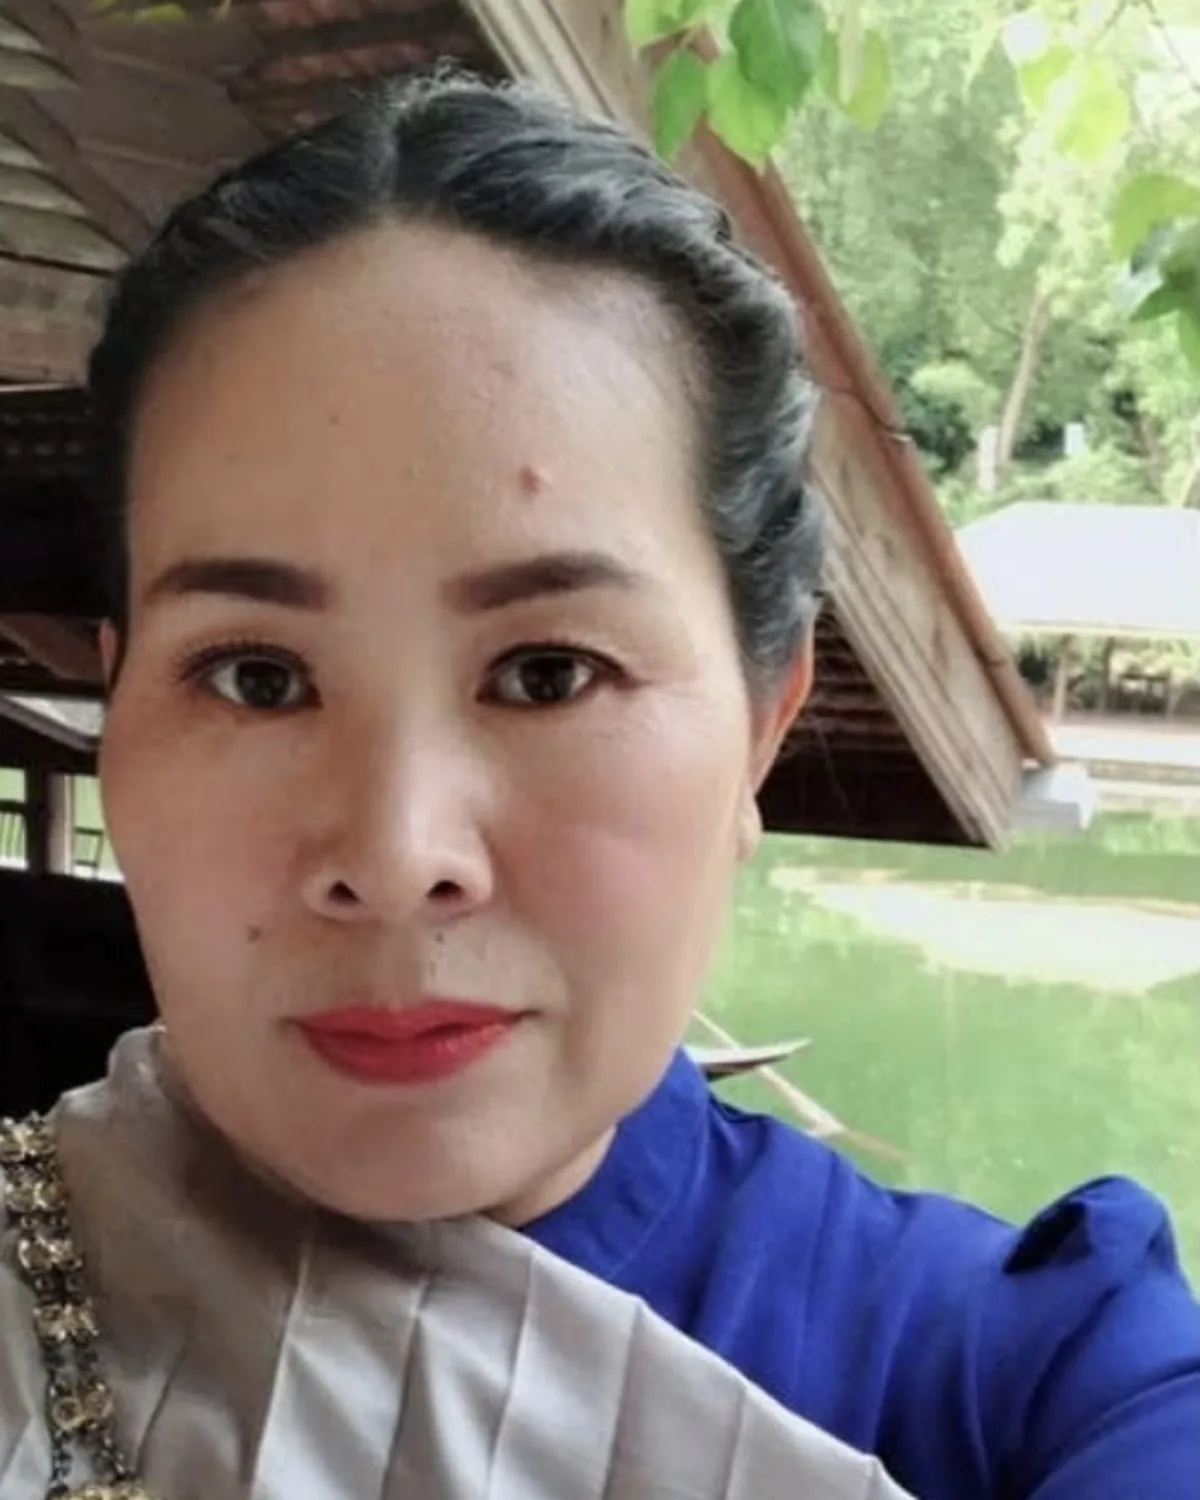
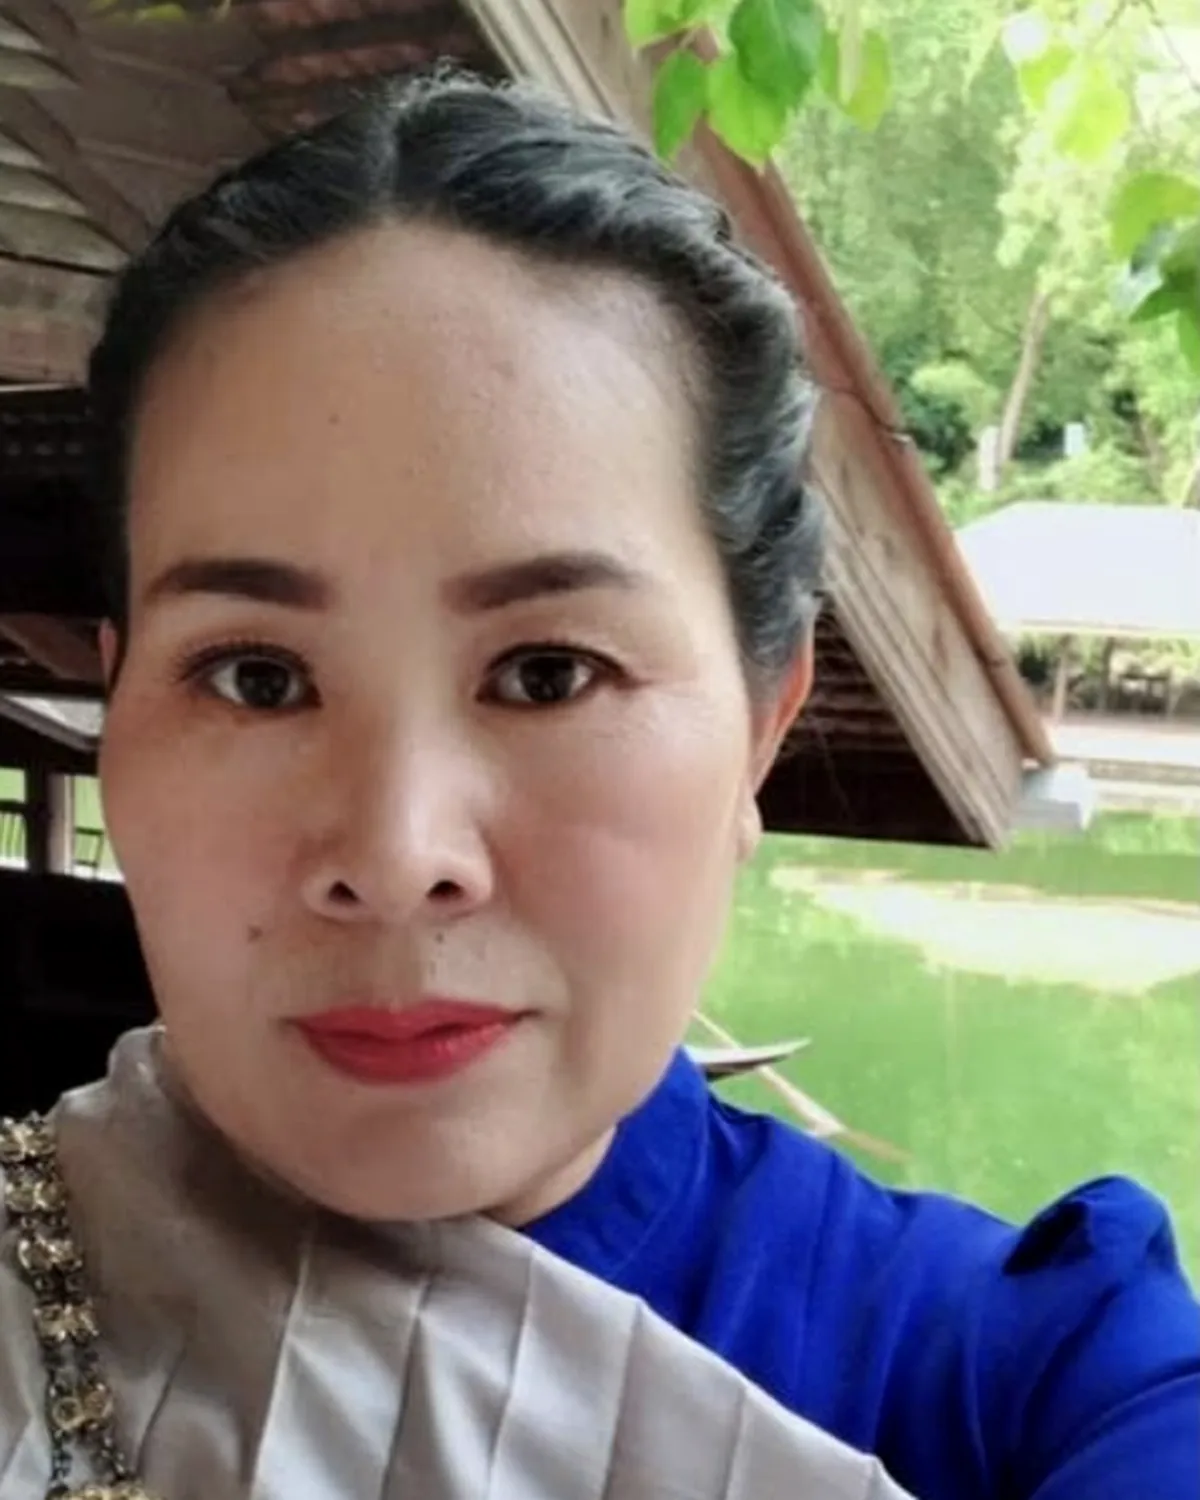
Chuan-Foto: Stirnfleck retuschiert, Gruen/Blau kraeftiger (chuan_zuschnitt.py)

diff --git a/werkzeug/chuan_zuschnitt.py b/werkzeug/chuan_zuschnitt.py
@@ -11,6 +11,35 @@ im.paste(patch,dst[:2],m)
 p2=im.crop((398,106,452,156)); m2=Image.new("L",p2.size,255).filter(ImageFilter.GaussianBlur(0)); mm=Image.new("L",p2.size,0); ImageDraw.Draw(mm).rectangle((0,0,p2.size[0]-8,p2.size[1]-8),fill=255); im.paste(p2,(398,48),mm.filter(ImageFilter.GaussianBlur(4)))
 c=im.crop((400,50,995,50+744))
 
+import numpy as np
+# --- Schritt 2 (27.11.): Stirnfleck entfernen, Farben kraeftiger ---
+# Fleck im Zuschnitt bei ca. (264,237). Ersatz: Haut knapp darueber, auf Ringfarbe angeglichen, weiche Maske.
+def stirn_retusche(c, cx=264, cy=237, r=11, dy=-30, dx=-6):
+    a=np.asarray(c).astype(np.float32)
+    H,W=a.shape[:2]
+    yy,xx=np.mgrid[0:H,0:W].astype(np.float32)
+    d=np.hypot(xx-cx,yy-cy)
+    ring=(d>r+3)&(d<r+9)
+    src=np.roll(a,(-dy,-dx),axis=(0,1))              # Pixel von (y+dy, x+dx) nach (y,x)
+    off=a[ring].mean(0)-src[ring].mean(0)
+    fill=src+off
+    m=np.clip(1-(d-r)/5.0,0,1)                       # voll bis r, weich bis r+5
+    m=(m*m*(3-2*m))[...,None]
+    return Image.fromarray(np.clip(a*(1-m)+fill*m,0,255).astype(np.uint8))
+
+def farben(c, sat_blau=1.30, sat_gruen=1.38, kontrast=1.03):
+    hsv=np.asarray(c.convert('HSV')).astype(np.float32)   # H 0..255 = 0..360 Grad
+    h=hsv[...,0]*360/255
+    def band(lo,hi,f=15):                              # weicher Hue-Bereich
+        return np.clip(np.minimum(h-lo,hi-h)/f+0.5,0,1)
+    gain=1+(sat_gruen-1)*band(65,170)+(sat_blau-1)*band(175,265)
+    hsv[...,1]=np.clip(hsv[...,1]*gain,0,255)
+    out=np.asarray(Image.fromarray(hsv.astype(np.uint8),'HSV').convert('RGB')).astype(np.float32)
+    out=128+(out-128)*kontrast                         # leichter Kontrast um Mittelgrau
+    return Image.fromarray(np.clip(out,0,255).astype(np.uint8))
+
+c=farben(stirn_retusche(c))
+
 
 for w in (640,1200):
     c.resize((w,round(w*5/4)),Image.LANCZOS).save(f"C:/AI-Assistent/thai-massage/bilder/chuan-{w}.webp","WEBP",quality=82,method=6)
